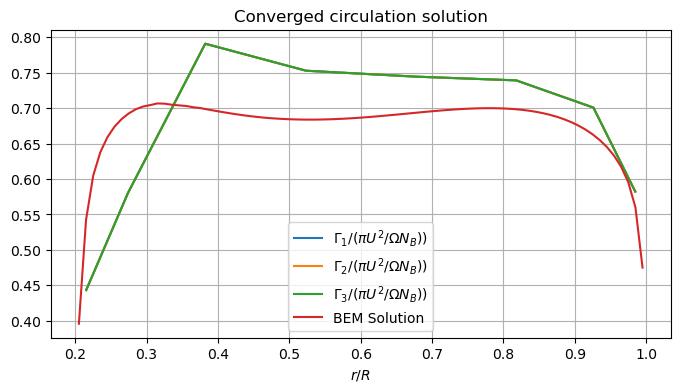
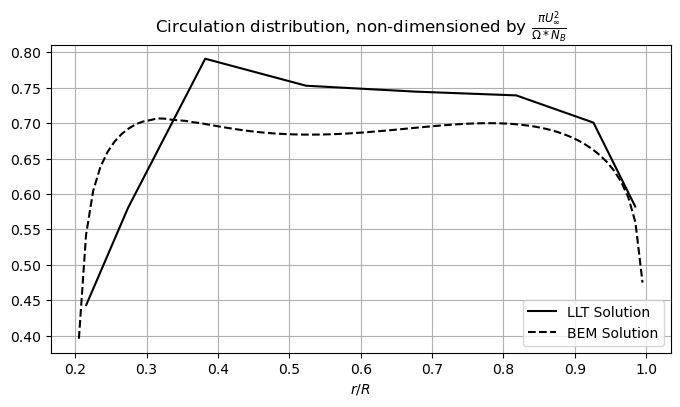
plots

diff --git a/main.py b/main.py
@@ -28,9 +28,9 @@ U_inf = 10  # unperturbed wind speed in m/s
 N_B = 3 # number of blades
 
 # Lifting line model inputs
-Ncp = 8 # number of segments per blade = number of control points, don't go above 25
+Ncp = 10 # number of segments per blade = number of control points, don't go above 25
 psi =  np.pi/11 # np.pi/3 # azimuthal position of the first rotor blade in radians
-Loutlet = 0.7 # the distance from the rotor  to the domain boundary, in rotor diameters
+Loutlet = 2 # the distance from the rotor to the domain boundary, in rotor diameters
 dx = 0.15 # discretization time step for the vortex ring.
 spacing = 1 # 0 - regular, 1 -  cosine
 averageFactor = 1 # average the induction factors in radial direction?
@@ -48,9 +48,6 @@ polar_CL = data1['cl'][:]
 polar_CD = data1['cd'][:]
 
 '''1. Run the BEM model for the inputs '''
-# TSR_distribution = np.linspace(4,10,24)
-CT_distribution = []
-CP_distribution = []
 results = np.zeros([len(mu)-1, 11])
 
 Omega = U_inf * TSR / R
@@ -75,8 +72,9 @@ if averageFactor == 1:
 chord_distribution = 3 * (1 - mu) + 1 # meters
 delta_r = (mu[1:] - mu[:-1]) * R
 CT = np.sum(delta_r * df_axial_BEM[1:] * N_B / (0.5 * U_inf ** 2 * np.pi * R ** 2))
+print('CT BEM = ' + str(CT))
 CP = np.sum(delta_r * df_tan_BEM[1:] * mu[1:] * N_B * R * Omega / (0.5 * U_inf ** 3 * np.pi * R ** 2))
-
+print('CP BEM = ' + str(CP))
 
 class VortexRing:
         def __init__(self, Rvec, theta, alphaVec, chordVec, UaxVec, UtanVec):   
@@ -217,54 +215,64 @@ while diff > tol:
 
 # Validation plots
 print("Solution converged")
-fig1 = plt.figure(figsize=(8, 4))
-plt.title('Converged circulation solution')
-fac = np.pi * U_inf**2 / (Omega*N_B)
-plt.plot(controlPoints['r'][0:Ncp]/R,controlPoints['gamma'][0:Ncp]/fac,label=r'$\Gamma_1 /(\pi U^2 / \Omega N_B))$')
-plt.plot(controlPoints['r'][Ncp:2*Ncp]/R,controlPoints['gamma'][0:Ncp]/fac,label=r'$\Gamma_2 /(\pi U^2 / \Omega N_B))$')
-plt.plot(controlPoints['r'][2*Ncp:3*Ncp]/R,controlPoints['gamma'][0:Ncp]/fac,label=r'$\Gamma_3 /(\pi U^2 / \Omega N_B))$')
-plt.plot(mu, gamma_BEM/fac, label='BEM Solution')
-plt.xlabel(r'$r/R$')
-plt.legend()
-plt.grid()
-plt.savefig("figures/circulation_converged",bbox_inches='tight')
+#fig1 = plt.figure(figsize=(8, 4))
+#plt.title('Converged circulation solution')
+#fac = np.pi * U_inf**2 / (Omega*N_B)
+#plt.plot(controlPoints['r'][0:Ncp]/R,controlPoints['gamma'][0:Ncp]/fac,label=r'$\Gamma_1 /(\pi U^2 / \Omega N_B))$')
+#plt.plot(controlPoints['r'][Ncp:2*Ncp]/R,controlPoints['gamma'][0:Ncp]/fac,label=r'$\Gamma_2 /(\pi U^2 / \Omega N_B))$')
+#plt.plot(controlPoints['r'][2*Ncp:3*Ncp]/R,controlPoints['gamma'][0:Ncp]/fac,label=r'$\Gamma_3 /(\pi U^2 / \Omega N_B))$')
+#plt.plot(mu, gamma_BEM/fac, label='BEM Solution')
+#plt.xlabel(r'$r/R$')
+#plt.legend()
+#plt.grid()
+#plt.savefig("figures/circulation_converged",bbox_inches='tight')
 # should be periodic and the same, as the norm of a vector is the first invariant :)
 # plt.plot(np.linalg.norm(controlPoints["Uin"],axis=0))
 # plt.plot(np.linalg.norm(controlPoints["Uin_blade"],axis=0))
 
+mu_LLT = controlPoints['r'][0:Ncp]/R
+
+fig1 = plt.figure(figsize=(8, 4))
+plt.title(r'Angle of Attack and Inflow Angle for $\lambda=$'+str(TSR))
+plt.plot(mu_LLT, np.rad2deg(controlPoints['alpha'][0:Ncp]), '-k',label=r'$\alpha_{LLT}$')
+plt.plot(mu, alpha_BEM, '--k', label=r'$\alpha_{BEM}$')
+plt.plot(mu_LLT, np.rad2deg(controlPoints['phi'][0:Ncp]), '-r', label=r'$\phi_{LLT}$')
+plt.plot(mu, np.rad2deg(phi_BEM), '--r', label=r'$\phi_{BEM}$')
+plt.xlabel(r'$r/R$')
+plt.legend()
+plt.grid()
+
 fig2 = plt.figure(figsize=(8, 4))
-plt.title('Angle of Attack')
-plt.plot(controlPoints['r'][0:Ncp]/R,np.rad2deg(controlPoints['alpha'][0:Ncp]),label=r'$\alpha \ [deg]$')
-plt.plot(mu, alpha_BEM, label='BEM Solution')
+plt.title(r'Circulation distribution, non-dimensioned by $\frac{\pi U_\infty^2}{\Omega N_B}$ for $\lambda=$'+str(TSR))
+fac = np.pi * U_inf**2 / (Omega*N_B)
+plt.plot(mu_LLT,controlPoints['gamma'][0:Ncp]/fac, '-k', label='LLT Solution')
+plt.plot(mu, gamma_BEM/fac, '--k', label='BEM Solution')
 plt.xlabel(r'$r/R$')
 plt.legend()
 plt.grid()
 
 fig3 = plt.figure(figsize=(8, 4))
-plt.title('Inflow Angle')
-plt.plot(controlPoints['r'][0:Ncp]/R,np.rad2deg(controlPoints['phi'][0:Ncp]),label=r'$\phi \ [deg]$')
-plt.plot(mu, phi_BEM, label='BEM Solution')
+plt.title(r'Thrust and Azimuthal Loading, non-dimensioned by $\frac{1}{2} \rho U_\infty^2 R$ for $\lambda=$'+str(TSR))
+fac = 0.5 * rho * U_inf**2 * R
+plt.plot(mu_LLT, df_axial[0:Ncp] / fac,'-k', label=r'$dT_{LLT}$')
+plt.plot(mu, df_axial_BEM / fac, '--k', label=r'$dT_{BEM}$')
+plt.plot(mu_LLT, df_tan[0:Ncp] / fac, '-r', label=r'$dQ_{LLT}$')
+plt.plot(mu, df_tan_BEM / fac, '--r', label=r'$dQ_{BEM}$')
 plt.xlabel(r'$r/R$')
 plt.legend()
 plt.grid()
 
-fig3 = plt.figure(figsize=(8, 4))
-plt.title('Axial Loading')
-plt.plot(controlPoints['r'][0:Ncp]/R, df_axial[0:Ncp],label=r'$\phi \ [deg]$')
-plt.plot(mu, df_axial_BEM, label='BEM Solution')
-plt.xlabel(r'$r/R$')
-plt.legend()
-plt.grid()
+#plt.show()
 
-fig3 = plt.figure(figsize=(8, 4))
-plt.title('Tangential Loading')
-plt.plot(controlPoints['r'][0:Ncp]/R, df_tan[0:Ncp],label=r'$\phi \ [deg]$')
-plt.plot(mu, df_tan_BEM, label='BEM Solution')
-plt.xlabel(r'$r/R$')
-plt.legend()
-plt.grid()
+print('CT BEM = ' + str(CT))
+print('CP BEM = ' + str(CP))
 
-plt.show()
+delta_r = (mu_LLT[1:] - mu_LLT[:-1]) * R
+CT = np.sum(delta_r * df_axial[1:Ncp] * N_B / (0.5 * U_inf ** 2 * np.pi * R ** 2))
+CP = np.sum(delta_r * df_tan[1:Ncp] * mu_LLT[1:] * N_B * R * Omega / (0.5 * U_inf ** 3 * np.pi * R ** 2))
+
+print('CT LLT = ' + str(CT))
+print('CP LLT = ' + str(CP))
 
 #fig3 = plt.figure(2,constrained_layout=True)
 #ax = plt.axes(projection='3d')

diff --git a/functions.py b/functions.py
@@ -94,52 +94,6 @@ def solveStreamtube(U_inf, mu_1, mu_2, delta_mu, mu_root, mu_tip, Omega, R, N_B,
     return [mu, a_new, aline, alpha, phi, df_axial, df_tan, gamma, CL, CD, alpha]
 
 
-def solveStreamtube_unc(U_inf, mu_1, mu_2, delta_mu, mu_root, mu_tip, Omega, R, N_B, chord, twist, polar_alpha, polar_CL, polar_CD):
-    A = np.pi * ((mu_2 * R) ** 2 - (mu_1 * R) ** 2)  # area streamtube
-    mu = (mu_1 + mu_2) / 2  # centroide
-
-    # initialize variables
-    a = 0.3  # axial induction
-    aline = 0.0  # tangential induction factor
-
-    N_iter = 100
-    # error limit for iteration process, in absolute value of induction
-    error_iter = 0.00001
-
-    for i in range(N_iter):
-        U_axial = U_inf * (1 - a)  # axial velocity at rotor
-        U_tan = Omega * mu * R * (1 + aline)  # tangential velocity at rotor
-
-        # calculate loads in blade segment in 2D (N/m)
-        df_axial, df_tan, alpha, phi, gamma, CL, CD = loadBladeElement(U_axial, U_tan, chord, twist, polar_alpha, polar_CL, polar_CD)      
-        
-        # total force for each annuli
-        dF_axial = df_axial * R * delta_mu * N_B
-
-        # calculate thrust coefficient at the streamtube
-        CdT = dF_axial / (0.5 * A * U_inf ** 2)
-
-        # calculate new axial induction, accounting for Glauert's correction
-        a_new = a_Glauert(CdT)
-
-        # calculate aximuthal induction
-        aline_new = df_tan * N_B / (2 * np.pi * U_inf * (1 - a) * Omega * 2 * (mu * R) ** 2)
-
-    
-        # for improving convergence, weigh current and previous iteration of axial induction
-        a = 0.75 * a + 0.25 * a_new
-        aline = 0.75 * aline + 0.25 * aline_new
-
-        # test convergence of solution, by checking convergence of axial induction
-        if (np.abs(a - a_new) < error_iter):
-            #print("iterations")
-            #print(i)
-            break
-
-    return [mu, a_new, aline, alpha, phi, df_axial, df_tan, gamma, CL, CD, alpha]
-
-
-
 def velocity3d_vortex_filament(GAMMA, XV1, XV2, XVP1, RV):
     # USES BIOS-SAVART LAW TO COMPUTE INDUCED VELOCITIES U, V AND W
     # AT A TARGET POINT XVP1 FROM A VORTEX FILAMENT OF RADIUS RV AND
@@ -173,6 +127,7 @@ def velocity3d_vortex_filament(GAMMA, XV1, XV2, XVP1, RV):
 
     return np.array([U, V, W])
 
+
 def downstreamLine(r, theta, chord, twist, Uax, Utan, R, Loutlet, dx):
     # this function discretizes a vorticity line
     N = int((Loutlet*R - chord)/ dx) # number of points along each line
@@ -188,6 +143,7 @@ def downstreamLine(r, theta, chord, twist, Uax, Utan, R, Loutlet, dx):
     thetas[2:] = thetas[1] + (np.arange(1,N-1) * dtheta)
     coords = np.vstack([xs, rs, thetas])
     return coords #[x,r,theta]
+
 
 def cyl2cart(arr): # array must be shaped as [ndim, npoints], with ndim = [x r theta]
     if arr.ndim == 1:
